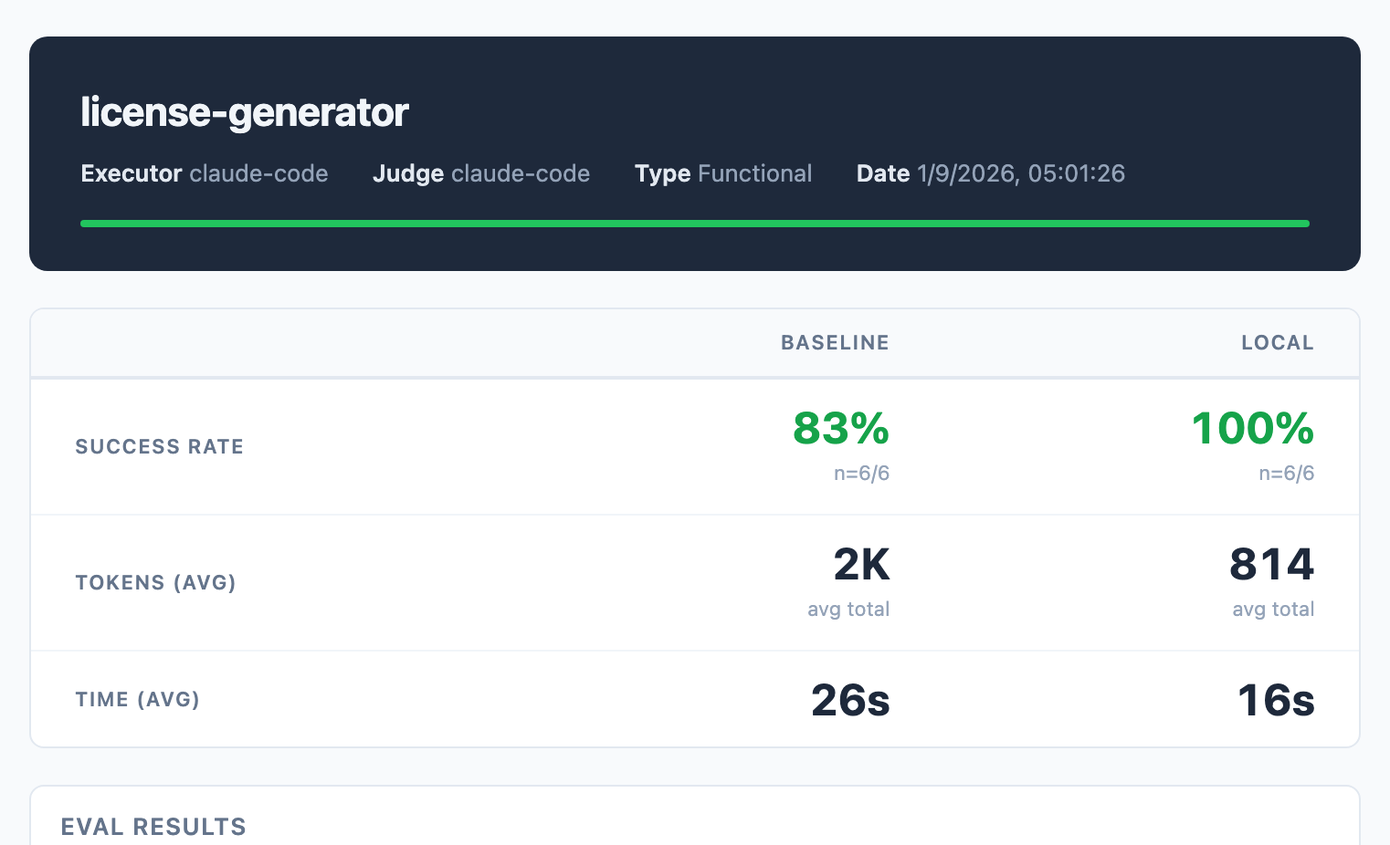
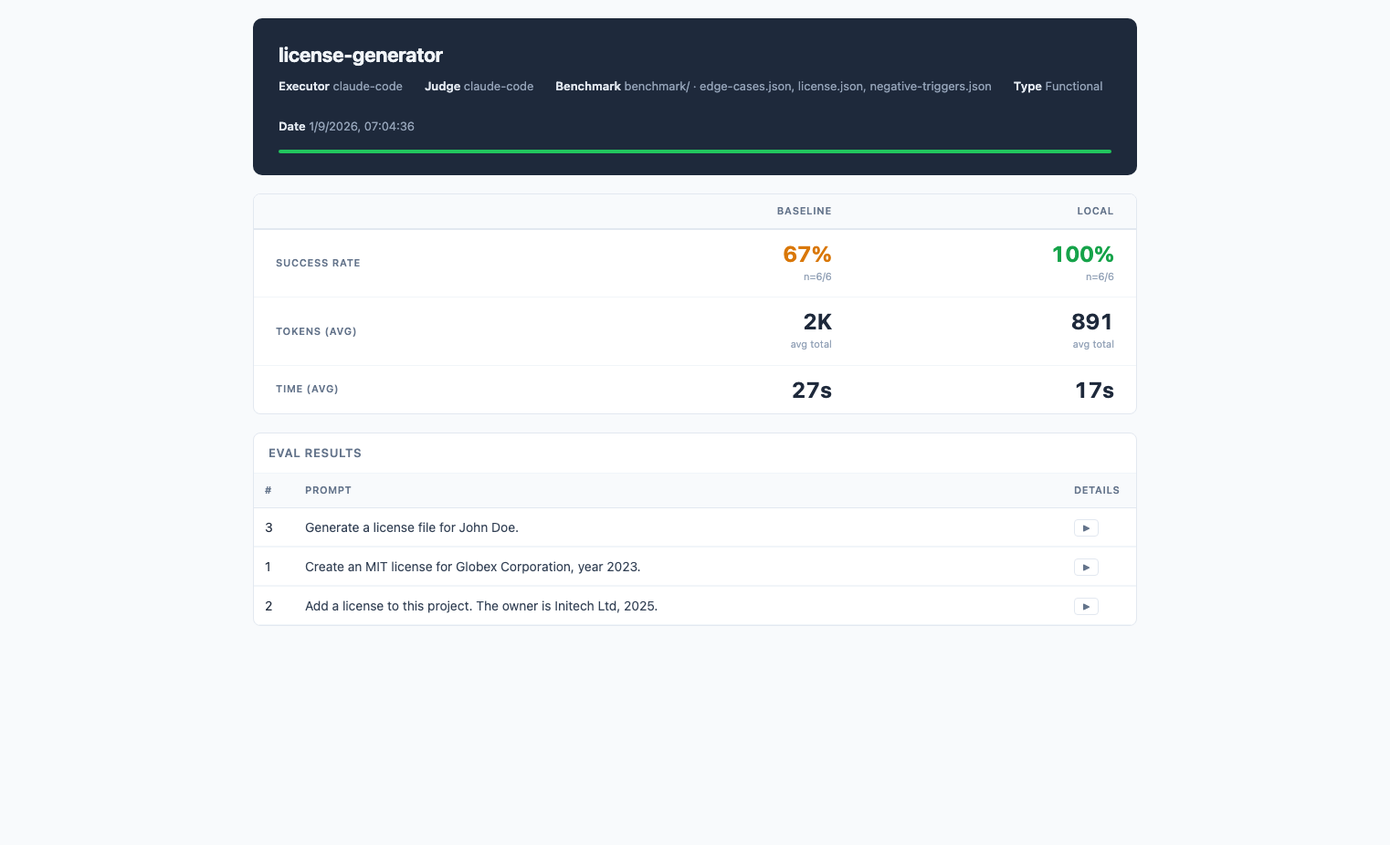
Regenerate the sample report on the benchmark-aware header
The published sample was captured before the header recorded a benchmark.
Regenerated with the command the README documents, so it now shows which
frozen benchmark produced the numbers, and rescreenshotted at the same
1522x926.

Claude-Session: https://claude.ai/code/session_014Zard8FspbqLpJH69t3tFm

diff --git a/docs/sample-report.html b/docs/sample-report.html
@@ -329,6 +329,7 @@ input[type="text"] { width: 190px; }
     <div class="header-meta">
       <span><b>Executor</b> <span id="hdr-executor">—</span></span>
       <span id="hdr-judge-wrap" hidden><b>Judge</b> <span id="hdr-judge">—</span></span>
+      <span id="hdr-benchmark-wrap" hidden><b>Benchmark</b> <span id="hdr-benchmark">—</span></span>
       <span><b>Type</b> <span id="hdr-type">—</span></span>
       <span><b>Date</b> <span id="hdr-date">—</span></span>
     </div>
@@ -365,7 +366,7 @@ input[type="text"] { width: 190px; }
 
 <div class="toast" id="toast" role="status" aria-live="polite"></div>
 
-<script id="run-data" type="application/json">{"runId":"2026-09-01T20-01-26-007Z","command":"functional","skill":"license-generator","executorAgent":"claude-code","judgeAgent":"claude-code","timestamp":"2026-09-01T20:01:26.007Z","tasks":[{"taskId":3,"prompt":"Generate a license file for John Doe.","assertions":["A file named LICENSE was created in the working directory","The LICENSE file contains 'John Doe'","The LICENSE file contains the current year (2026) since no year was specified in the prompt"],"variants":{"baseline":[{"id":1,"passed":true,"isError":false,"results":[1,1,1],"reasons":["Verified directly: a file named LICENSE exists in the working directory. The agent modified a pre-existing LICENSE rather than creating a new file, but the assertion's end state (a LICENSE file present in the working directory, authored for John Doe) holds.","Verified by reading the file: line 3 reads 'Copyright (c) 2026 John Doe', matching the git diff which shows 'Federico Mete' replaced by 'John Doe'.","Verified by reading the file: the copyright line contains '2026', the current year, which was not specified in the prompt."],"tokens":{"totalTokens":1710},"durationMs":29448,"output":"Wrote `LICENSE` — MIT, `Copyright (c) 2026 John Doe`.\n\nTwo things to flag:\n- The repo already had a `LICENSE` naming **Federico Mete** as copyright holder; I replaced that line (it's the only change — `git checkout LICENSE` restores it). If you wanted a separate file rather than a replacement, say the filename and I'll move it.\n- I chose MIT to match `\"license\": \"MIT\"` in `package.json`. `package.json`'s `\"author\": \"Federico Mete\"` is unchanged — tell me if that should become John Doe too.","outputLen":494,"toolCalls":3,"stopStatus":"success","logFile":"task_3_baseline_trial_1.log","anomalies":[]},{"id":2,"passed":true,"isError":false,"results":[1,1,1],"reasons":["Verified by direct read: a file named LICENSE exists in the working directory (1065 bytes) containing a full MIT license. The diff shows it was modified rather than created from scratch, but the assertion's intent — a LICENSE file present in the working directory as a result of the agent's action — is satisfied.","Verified by direct read: line 3 of LICENSE reads 'Copyright (c) 2026 John Doe', so the exact string 'John Doe' is present.","Verified by direct read: the copyright line contains '2026', the current year, which was not specified in the original prompt."],"tokens":{"totalTokens":1816},"durationMs":30278,"output":"Wrote an MIT license to `LICENSE` with `Copyright (c) 2026 John Doe`.\n\nTwo things worth flagging:\n\n- This repo already had a `LICENSE` — MIT, `Copyright (c) 2026 Federico Mete`. I overwrote it, so the copyright holder changed. The only diff is that one line; revert with `git checkout LICENSE` if you meant a separate file instead.\n- `package.json` still declares `\"author\": \"Federico Mete\"` and `\"license\": \"MIT\"`. The license field still matches; the author no longer matches the copyright line.\n\nI picked MIT since that's what the project already used and what `package.json` declares. Say the word if you wanted Apache-2.0, GPL, BSD, or something else.","outputLen":656,"toolCalls":3,"stopStatus":"success","logFile":"task_3_baseline_trial_2.log","anomalies":[]}],"local":[{"id":1,"passed":true,"isError":false,"results":[1,1,1],"reasons":["Verified via the filesystem: a file named LICENSE exists at the root of the working directory and holds a complete MIT License text. Note that git reports it as ' M LICENSE' (tracked and modified, first added in commit 37dc082), so the agent overwrote a pre-existing LICENSE rather than creating a new file; the end state the assertion targets — a LICENSE file present in the working directory with generated license content — is satisfied.","Reading the file directly shows line 3 is 'Copyright (c) 2026 John Doe', matching the requested copyright holder from the prompt. The diff confirms the prior holder 'Federico Mete' was replaced with 'John Doe'.","The copyright line reads 'Copyright (c) 2026 John Doe'. The prompt specified no year, and 2026 is the current year, so the default was applied correctly."],"tokens":{"totalTokens":789},"durationMs":16737,"output":"I'll use the license-generator skill.\nCreated `LICENSE` — MIT License, copyright holder **John Doe**, year **2026** (current year, since none was specified).","outputLen":157,"toolCalls":2,"stopStatus":"success","logFile":"task_3_local_trial_1.log","anomalies":[]},{"id":2,"passed":true,"isError":false,"results":[1,1,1],"reasons":["Verified with a direct filesystem read: LICENSE exists in the working directory and contains the MIT License text. Note the git diff shows it as a modification of a pre-existing LICENSE rather than a brand-new file, but the required artifact is present in the working directory as specified.","Direct read of LICENSE shows line 3: 'Copyright (c) 2026 John Doe', matching the diff which replaced the prior holder 'Federico Mete' with 'John Doe'.","The copyright line reads 'Copyright (c) 2026 John Doe', containing the current year 2026, and the prompt specified no year."],"tokens":{"totalTokens":794},"durationMs":15162,"output":"I'll use the license-generator skill.\nCreated `LICENSE` in the project root with the MIT License, copyright holder **John Doe** and year **2026** (current year, since none was specified).","outputLen":187,"toolCalls":2,"stopStatus":"success","logFile":"task_3_local_trial_2.log","anomalies":[]}]}},{"taskId":1,"prompt":"Create an MIT license for Globex Corporation, year 2023.","assertions":["A file named LICENSE was created in the working directory","The LICENSE file contains the line 'MIT License'","The LICENSE file contains 'Copyright (c) 2023 Globex Corporation'"],"variants":{"baseline":[{"id":1,"passed":true,"isError":false,"results":[1,1,1],"reasons":["Verified directly: `LICENSE` exists in the working directory (1075 bytes) and the diff shows the agent wrote MIT license content into it. Note the file pre-existed and was overwritten rather than newly created, but the end state required by the assertion — a LICENSE file present with the agent's content — holds.","Reading the file confirms line 1 is exactly 'MIT License'.","Reading the file confirms line 3 is 'Copyright (c) 2023 Globex Corporation', matching the diff which replaced 'Copyright (c) 2026 Federico Mete'."],"tokens":{"totalTokens":708},"durationMs":13643,"output":"I'll write the standard MIT license text directly.\nCreated `LICENSE` with the standard MIT license text, copyright 2023 Globex Corporation.","outputLen":139,"toolCalls":1,"stopStatus":"success","logFile":"task_1_baseline_trial_1.log","anomalies":[]},{"id":2,"passed":false,"isError":false,"results":[0,0,0],"reasons":["The agent created `LICENSE-Globex-2023.txt`, not `LICENSE`. A `LICENSE` file does exist in the directory, but it is pre-existing tracked content (MIT, 2026 Federico Mete) and was not created or modified by the agent — git status shows only `LICENSE-Globex-2023.txt` as untracked and no diff against `LICENSE`.","The pre-existing `LICENSE` file does begin with 'MIT License', but it was not produced by this execution; the file the agent actually wrote is `LICENSE-Globex-2023.txt`. Since the assertion targets a LICENSE file created by the agent, which does not exist, it is not satisfied.","`LICENSE` contains 'Copyright (c) 2026 Federico Mete'. The string 'Copyright (c) 2023 Globex Corporation' appears only in `LICENSE-Globex-2023.txt`, not in `LICENSE`."],"tokens":{"totalTokens":1859},"durationMs":30350,"output":"Written to `LICENSE-Globex-2023.txt` — standard MIT text with `Copyright (c) 2023 Globex Corporation`.\n\nOne note: this repo already has a `LICENSE` (MIT, 2026 Federico Mete), so I didn't overwrite it. If you meant to replace the project's license, say the word and I'll move this over `LICENSE`.","outputLen":295,"toolCalls":3,"stopStatus":"success","logFile":"task_1_baseline_trial_2.log","anomalies":[{"tag":"zero-assertions","reason":"Passed 0 of 3 assertions; the cohort median is 1.5."}]}],"local":[{"id":1,"passed":true,"isError":false,"results":[1,1,1],"reasons":["A file named LICENSE exists in the working directory (verified by direct read); the diff shows it was written by the agent with the requested content.","The first line of the file is exactly 'MIT License', and the body matches the standard MIT license text.","Line 3 of the file reads 'Copyright (c) 2023 Globex Corporation', matching the requested holder and year exactly."],"tokens":{"totalTokens":795},"durationMs":15236,"output":"I'll use the license-generator skill.\nCreated `LICENSE` with the MIT License, copyright holder **Globex Corporation**, year **2023**.","outputLen":133,"toolCalls":2,"stopStatus":"success","logFile":"task_1_local_trial_1.log","anomalies":[]},{"id":2,"passed":true,"isError":false,"results":[1,1,1],"reasons":["Verified with a direct file read: LICENSE exists in the working directory (1075 bytes). The git diff shows it as a modification of an existing tracked file rather than a new file, but the assertion's intent — a LICENSE file present with the requested content — is satisfied.","The first line of the file read directly from disk is exactly 'MIT License', and the body matches the standard MIT license text.","Line 3 of the file reads 'Copyright (c) 2023 Globex Corporation', matching the requested holder and year; the diff confirms it replaced the prior 'Copyright (c) 2026 Federico Mete'."],"tokens":{"totalTokens":794},"durationMs":15927,"output":"I'll use the license-generator skill.\nCreated `LICENSE` with the MIT License text, copyright holder **Globex Corporation**, year **2023**.","outputLen":138,"toolCalls":2,"stopStatus":"success","logFile":"task_1_local_trial_2.log","anomalies":[]}]}},{"taskId":2,"prompt":"Add a license to this project. The owner is Initech Ltd, 2025.","assertions":["A file named LICENSE was created in the working directory","The LICENSE file contains the line 'MIT License'","The LICENSE file contains 'Copyright (c) 2025 Initech Ltd'"],"variants":{"baseline":[{"id":1,"passed":true,"isError":false,"results":[1,1,1],"reasons":["A LICENSE file exists in the working directory and was verified by reading it. It was modified rather than newly created (a prior MIT LICENSE was already present), but the end state satisfies the assertion: the working directory contains a LICENSE file with the intended content.","The first line of LICENSE reads exactly 'MIT License'.","Line 3 of LICENSE reads 'Copyright (c) 2025 Initech Ltd', matching the required string exactly; the diff confirms it replaced 'Copyright (c) 2026 Federico Mete'."],"tokens":{"totalTokens":1709},"durationMs":29185,"output":"I'll add a license. Let me check the project metadata first.\nThe project already had a `LICENSE` file — MIT, but with `Copyright (c) 2026 Federico Mete`. I updated the copyright holder rather than adding a second file:\n\n- `LICENSE:3` — now `Copyright (c) 2025 Initech Ltd`. The rest of the MIT text is unchanged.\n\nI kept MIT since `package.json` already declares `\"license\": \"MIT\"` and you didn't ask for a different one. Two things I left alone, in case you want them changed:\n\n- `package.json:\"author\"` is still `Federico Mete` — that's authorship attribution, distinct from the copyright owner.\n- If the ownership transfer is real (not just a metadata fix), the git history and npm publishing account still point at the previous owner.","outputLen":738,"toolCalls":4,"stopStatus":"success","logFile":"task_2_baseline_trial_1.log","anomalies":[]},{"id":2,"passed":true,"isError":false,"results":[1,1,1],"reasons":["A file named LICENSE exists in the working directory (verified via ls and cat). It was not newly created by the agent — it already existed and was modified (git status shows ' M LICENSE') — but the end state required by the assertion, a LICENSE file present in the working directory, holds.","grep confirms line 1 of LICENSE is exactly 'MIT License'.","grep confirms line 3 of LICENSE reads 'Copyright (c) 2025 Initech Ltd', matching the requested owner and year from the original prompt."],"tokens":{"totalTokens":1336},"durationMs":26040,"output":"I'll add a license. Let me check the project setup first.\nA LICENSE file already exists — let me see what's in it.\nDone.\n\nThe project already had a `LICENSE` file (MIT) and `\"license\": \"MIT\"` in `package.json`, but the copyright line read `2026 Federico Mete`. Rather than introduce a second license, I kept MIT and reassigned ownership:\n\n- `LICENSE:3` — now `Copyright (c) 2025 Initech Ltd`\n- `README.md` — added a `## License` section pointing at the file, since the README had none\n\nTwo things I left alone, in case you want them changed:\n- `package.json` still lists `\"author\": \"Federico Mete\"` — npm author and copyright holder are separate fields, so it isn't necessarily wrong, but say the word if Initech should be the author too.\n- I picked MIT by inheritance from the existing file. If Initech's intent was a different license (Apache-2.0, proprietary, etc.), that's a swap of both the file and the `package.json` field.","outputLen":930,"toolCalls":4,"stopStatus":"success","logFile":"task_2_baseline_trial_2.log","anomalies":[]}],"local":[{"id":1,"passed":true,"isError":false,"results":[1,1,1],"reasons":["Verified with the filesystem: a file named LICENSE exists at the working-directory root (1068 bytes). Note that the file was not created from scratch — git shows it as modified (' M LICENSE'), pre-existing from commit 37dc082 — so the agent overwrote an existing LICENSE rather than creating a new one. The required end state (a LICENSE file present in the working directory) is satisfied.","Reading the file directly, line 1 is exactly 'MIT License'.","Reading the file directly, line 3 is exactly 'Copyright (c) 2025 Initech Ltd', matching the requested holder and year; the diff confirms it replaced 'Copyright (c) 2026 Federico Mete'."],"tokens":{"totalTokens":856},"durationMs":16034,"output":"I'll use the license-generator skill for this.\nCreated `LICENSE` at the project root with the MIT License, copyright holder **Initech Ltd**, year **2025**.","outputLen":155,"toolCalls":2,"stopStatus":"success","logFile":"task_2_local_trial_1.log","anomalies":[]},{"id":2,"passed":true,"isError":false,"results":[1,1,1],"reasons":["Verified directly: `ls -la LICENSE` shows the file present at the working-directory root (1068 bytes). Note the file was pre-existing and tracked (git log shows it from commit 37dc082; the diff is a modification, not an addition against /dev/null), so the agent overwrote rather than newly created it — but the required end state, a LICENSE file in the working directory, holds.","Verified by reading the file: line 1 is exactly 'MIT License'.","Verified by reading the file: line 3 is exactly 'Copyright (c) 2025 Initech Ltd', matching the owner and year from the original prompt. The diff confirms it replaced the prior 'Copyright (c) 2026 Federico Mete'."],"tokens":{"totalTokens":853},"durationMs":16029,"output":"I'll use the license-generator skill.\nCreated `LICENSE` at the project root — MIT License, `Copyright (c) 2025 Initech Ltd`.","outputLen":124,"toolCalls":2,"stopStatus":"success","logFile":"task_2_local_trial_2.log","anomalies":[]}]}}]}</script>
+<script id="run-data" type="application/json">{"runId":"2026-09-01T22-04-36-512Z","command":"functional","skill":"license-generator","executorAgent":"claude-code","judgeAgent":"claude-code","benchmark":{"source":"/Users/federico.mete/Work/Tools/skill-eval/mock-skill/evals","frozen":"benchmark","evalFiles":["edge-cases.json","license.json","negative-triggers.json"]},"timestamp":"2026-09-01T22:04:36.512Z","tasks":[{"taskId":3,"prompt":"Generate a license file for John Doe.","assertions":["A file named LICENSE was created in the working directory","The LICENSE file contains 'John Doe'","The LICENSE file contains the current year (2026) since no year was specified in the prompt"],"variants":{"baseline":[{"id":1,"passed":true,"isError":false,"results":[1,1,1],"reasons":["A LICENSE file exists in the working directory and was written by the agent. It was an overwrite of a pre-existing LICENSE rather than a brand-new file, but the assertion's intent — a LICENSE file present in the working directory as a result of the run — is satisfied, and the agent explicitly disclosed the replacement.","Direct read of LICENSE shows the copyright line 'Copyright (c) 2026 John Doe', confirming the string 'John Doe' is present.","The copyright line reads 'Copyright (c) 2026 John Doe', which contains the current year 2026; no year was given in the prompt."],"tokens":{"totalTokens":1545},"durationMs":27264,"output":"Wrote `LICENSE` — MIT (matching `package.json`'s `\"license\": \"MIT\"`), copyright 2026 John Doe.\n\nNote: this replaced the existing `LICENSE`, which was the same MIT text with \"Copyright (c) 2026 Federico Mete\". The only change is the holder line, and the previous version is recoverable via `git checkout LICENSE`. If you wanted John Doe's license as a separate file instead of replacing the project's, say the word and I'll restore the original.","outputLen":444,"toolCalls":3,"stopStatus":"success","logFile":"task_3_baseline_trial_1.log","anomalies":[]},{"id":2,"passed":false,"isError":false,"results":[0,0,1],"reasons":["The agent created `LICENSE-john-doe`, not `LICENSE`. A file named `LICENSE` does exist in the directory, but it pre-existed the run (it is tracked, absent from the untracked list, and the diff is empty, so it was neither created nor modified by the agent). Its content still reads 'Copyright (c) 2026 Federico Mete'. The agent explicitly acknowledged writing to a new file instead of `LICENSE`.","Read directly: `LICENSE` contains 'Copyright (c) 2026 Federico Mete' — no occurrence of 'John Doe'. The string 'John Doe' appears only in the separate `LICENSE-john-doe` file the agent created.","Read directly: `LICENSE` contains 'Copyright (c) 2026 Federico Mete', which includes the current year 2026. (The agent-created `LICENSE-john-doe` likewise uses 'Copyright (c) 2026'.) The year requirement is satisfied under either reading, even though the holder name is not."],"tokens":{"totalTokens":1713},"durationMs":29145,"output":"Created `LICENSE-john-doe` — an MIT License with `Copyright (c) 2026 John Doe`, matching the license type this repo already declares in `package.json`.\n\nI wrote it to a new file rather than the existing `LICENSE`, which currently holds `Copyright (c) 2026 Federico Mete`. If the intent was to change the project's copyright holder, say so and I'll replace `LICENSE` and drop the new file.","outputLen":388,"toolCalls":3,"stopStatus":"success","logFile":"task_3_baseline_trial_2.log","anomalies":[]}],"local":[{"id":1,"passed":true,"isError":false,"results":[1,1,1],"reasons":["Verified directly with the filesystem: a regular file named LICENSE exists in the working directory (1065 bytes) and the diff shows it was modified/written by the agent.","Reading the file confirms the copyright line is 'Copyright (c) 2026 John Doe', replacing the prior holder 'Federico Mete' as shown in the diff.","The file contains 'Copyright (c) 2026 John Doe', which uses the current year 2026 even though the prompt specified no year."],"tokens":{"totalTokens":739},"durationMs":18919,"output":"Created `LICENSE` in the working directory with the MIT License text, copyright holder **John Doe** and year **2026** (current year, since none was given).","outputLen":155,"toolCalls":2,"stopStatus":"success","logFile":"task_3_local_trial_1.log","anomalies":[]},{"id":2,"passed":true,"isError":false,"results":[1,1,1],"reasons":["A LICENSE file exists at the repo root and the diff shows it was modified/written by the agent; verified directly by reading the file.","The file contains the line 'Copyright (c) 2026 John Doe', replacing the previous holder 'Federico Mete'.","The copyright line reads 'Copyright (c) 2026 John Doe', which includes the current year 2026."],"tokens":{"totalTokens":840},"durationMs":16577,"output":"I'll use the license-generator skill.\nCreated `LICENSE` at the repo root with the MIT License, copyright holder **John Doe** and year **2026** (current year, since none was specified).","outputLen":184,"toolCalls":2,"stopStatus":"success","logFile":"task_3_local_trial_2.log","anomalies":[]}]}},{"taskId":1,"prompt":"Create an MIT license for Globex Corporation, year 2023.","assertions":["A file named LICENSE was created in the working directory","The LICENSE file contains the line 'MIT License'","The LICENSE file contains 'Copyright (c) 2023 Globex Corporation'"],"variants":{"baseline":[{"id":1,"passed":false,"isError":false,"results":[0,1,0],"reasons":["A file named LICENSE exists, but it was not created by this run — it is tracked in git and unmodified (git status shows only `?? LICENSE-globex`), and its contents are the pre-existing MIT license for `Copyright (c) 2026 Federico Mete`. The agent deliberately wrote its output to a new file `LICENSE-globex` instead of creating/overwriting `LICENSE`, and explicitly said so in its response and offered to replace `LICENSE` on request.","Read `LICENSE` directly: its first line is `MIT License`. Note this is the pre-existing repository license rather than anything the agent produced; the agent's new file `LICENSE-globex` also begins with `MIT License`.","Read `LICENSE` directly: its copyright line is `Copyright (c) 2026 Federico Mete`, not `Copyright (c) 2023 Globex Corporation`. The requested Globex copyright line is present only in the separate file `LICENSE-globex`, which the assertion does not reference."],"tokens":{"totalTokens":1801},"durationMs":29335,"output":"Wrote the standard MIT license text with `Copyright (c) 2023 Globex Corporation` to `LICENSE-globex`.\n\nI put it in a new file rather than `LICENSE`, because this repo already has an MIT `LICENSE` attributed to Federico Mete, 2026 — overwriting it would relicense the project to a different holder. Say the word and I'll replace `LICENSE` instead, or rename the new file.","outputLen":370,"toolCalls":3,"stopStatus":"success","logFile":"task_1_baseline_trial_1.log","anomalies":[]},{"id":2,"passed":false,"isError":false,"results":[0,1,0],"reasons":["Verified with ls and git status: the agent created LICENSE-Globex.txt (the only untracked/new file). A file named LICENSE does exist, but it is a pre-existing tracked file (Copyright (c) 2026 Federico Mete) that the agent explicitly declined to overwrite, so no LICENSE file was created by this execution.","Read the file directly: LICENSE begins with the line 'MIT License'. Note this text comes from the pre-existing repository LICENSE, not from the agent's work — the agent's output went to LICENSE-Globex.txt (which also starts with 'MIT License').","Read the file directly: LICENSE contains 'Copyright (c) 2026 Federico Mete'. The string 'Copyright (c) 2023 Globex Corporation' appears only in LICENSE-Globex.txt, not in LICENSE."],"tokens":{"totalTokens":1732},"durationMs":28199,"output":"Written to `LICENSE-Globex.txt` — standard MIT text with `Copyright (c) 2023 Globex Corporation`.\n\nOne note: this repo already has a tracked `LICENSE` (MIT, `Copyright (c) 2026 Federico Mete`), so I created a separate file rather than overwriting it. Say the word if you'd rather replace `LICENSE` itself.","outputLen":305,"toolCalls":3,"stopStatus":"success","logFile":"task_1_baseline_trial_2.log","anomalies":[]}],"local":[{"id":1,"passed":true,"isError":false,"results":[1,1,1],"reasons":["Verified directly: a file named LICENSE exists in the working directory (1075 bytes) and the git diff shows it was written by the agent during this run.","Reading the file confirms the first line is exactly 'MIT License', followed by the standard MIT license body.","The file contains the exact line 'Copyright (c) 2023 Globex Corporation'; the diff confirms it replaced the prior 'Copyright (c) 2026 Federico Mete' line, matching the requested holder and year."],"tokens":{"totalTokens":802},"durationMs":14999,"output":"I'll use the license-generator skill.\nCreated `LICENSE` in the working directory with the MIT License text, copyright holder **Globex Corporation**, year **2023**.","outputLen":163,"toolCalls":2,"stopStatus":"success","logFile":"task_1_local_trial_1.log","anomalies":[]},{"id":2,"passed":true,"isError":false,"results":[1,1,1],"reasons":["A LICENSE file exists in the working directory and was written by the agent during this run; the git diff shows it as modified (an MIT LICENSE was already present) and its content now matches the requested license.","Reading LICENSE directly confirms the first line is exactly 'MIT License'.","Reading LICENSE directly confirms line 3 is 'Copyright (c) 2023 Globex Corporation', matching the diff which replaced 'Copyright (c) 2026 Federico Mete'."],"tokens":{"totalTokens":802},"durationMs":15244,"output":"I'll use the license-generator skill.\nCreated `LICENSE` in the working directory with the MIT License text, copyright holder **Globex Corporation**, year **2023**.","outputLen":163,"toolCalls":2,"stopStatus":"success","logFile":"task_1_local_trial_2.log","anomalies":[]}]}},{"taskId":2,"prompt":"Add a license to this project. The owner is Initech Ltd, 2025.","assertions":["A file named LICENSE was created in the working directory","The LICENSE file contains the line 'MIT License'","The LICENSE file contains 'Copyright (c) 2025 Initech Ltd'"],"variants":{"baseline":[{"id":1,"passed":true,"isError":false,"results":[1,1,1],"reasons":["A file named LICENSE exists in the working directory (verified with ls). The agent modified a pre-existing LICENSE rather than creating one from scratch, but the end state satisfies the assertion: the project has a LICENSE file reflecting the requested ownership.","Reading LICENSE directly confirms the first line is exactly 'MIT License', and the full MIT terms follow.","Line 3 of LICENSE reads 'Copyright (c) 2025 Initech Ltd', matching the assertion exactly; the diff shows it replaced the prior 'Copyright (c) 2026 Federico Mete'."],"tokens":{"totalTokens":1395},"durationMs":26666,"output":"I'll add an MIT license (a common default for a Node CLI tool). Let me check the project setup first.\nThe project already had an MIT `LICENSE` file, but it was attributed to \"2026 Federico Mete\". I set the ownership you specified rather than adding a second, conflicting license:\n\n- **`LICENSE`** — copyright line now reads `Copyright (c) 2025 Initech Ltd`. Terms stay MIT, matching the `\"license\": \"MIT\"` already declared in `package.json`.\n- **`README.md`** — added a `## License` section pointing at the file (the README had no license reference before).\n\nTwo things I left alone, flagging in case you want them changed:\n- `package.json` `\"author\": \"Federico Mete\"` — authorship is distinct from copyright ownership, so I kept it.\n- MIT was retained since it was the existing declared license; say the word if Initech wants different terms (Apache-2.0, proprietary, etc.).","outputLen":875,"toolCalls":4,"stopStatus":"success","logFile":"task_2_baseline_trial_1.log","anomalies":[]},{"id":2,"passed":true,"isError":false,"results":[1,1,1],"reasons":["A LICENSE file exists in the working directory and holds the required content. The agent modified a pre-existing LICENSE rather than creating a new one, but the assertion's intent — that the working directory ends with a LICENSE file bearing the requested license — is satisfied.","Reading LICENSE directly confirms the first line is exactly 'MIT License'.","Reading LICENSE directly confirms line 3 is 'Copyright (c) 2025 Initech Ltd', matching the diff which replaced 'Copyright (c) 2026 Federico Mete'."],"tokens":{"totalTokens":1115},"durationMs":21660,"output":"I'll add a license. Let me check the project's existing metadata first.\nA LICENSE already exists — let me see what it says.\nThe project already has an MIT LICENSE, but with a different copyright holder. I'll update it to the stated owner rather than adding a second license file.\nDone. `LICENSE` now reads:\n\n```\nMIT License\n\nCopyright (c) 2025 Initech Ltd\n```\n\nNotes:\n- The project already carried an MIT license (`package.json` declares `\"license\": \"MIT\"`, and `LICENSE` is in the published `files` array), so I kept MIT and only corrected the copyright holder/year to Initech Ltd, 2025. If Initech wants a different license (Apache-2.0, proprietary, etc.), say which and I'll swap the full text and the `package.json` field.\n- `package.json` still has `\"author\": \"Federico Mete\"`. Author and copyright owner are separate fields, so I left it alone — tell me if you want that changed to Initech Ltd too.","outputLen":904,"toolCalls":3,"stopStatus":"success","logFile":"task_2_baseline_trial_2.log","anomalies":[]}],"local":[{"id":1,"passed":true,"isError":false,"results":[1,1,1],"reasons":["Verified directly: `LICENSE` exists at the project root (1068 bytes). Note the diff shows it was modified rather than newly created (a prior LICENSE with 'Copyright (c) 2026 Federico Mete' existed), but the intended end state — a LICENSE file present in the working directory with the requested content — is satisfied.","Reading the file confirms line 1 is exactly 'MIT License'.","Reading the file confirms line 3 is exactly 'Copyright (c) 2025 Initech Ltd', matching the requested owner and year; the diff corroborates this replaced the previous copyright line."],"tokens":{"totalTokens":867},"durationMs":15846,"output":"I'll use the license-generator skill for this.\nCreated `LICENSE` at the project root with the MIT License, copyright holder **Initech Ltd**, year **2025**.","outputLen":155,"toolCalls":2,"stopStatus":"success","logFile":"task_2_local_trial_1.log","anomalies":[]},{"id":2,"passed":true,"isError":false,"results":[1,1,1],"reasons":["Verified directly with `ls -la LICENSE`: a file named LICENSE (1068 bytes) exists at the working directory root. Strictly speaking it was overwritten rather than created from nothing — the diff shows LICENSE as a modification (index 871b781..c0f0d96) of a pre-existing MIT file — but the assertion's intent, that a LICENSE file is in place as a result of the run, is satisfied. The agent proactively disclosed the overwrite and offered a restore path.","Read the file contents directly: line 1 is exactly 'MIT License', followed by the standard MIT permission grant text.","Read the file contents directly: line 3 is exactly 'Copyright (c) 2025 Initech Ltd', matching the owner and year given in the original prompt."],"tokens":{"totalTokens":1295},"durationMs":22115,"output":"I'll use the license-generator skill for this.\n`LICENSE` is in place at the repo root, generated from the skill's MIT template.\n\nOne thing to flag: a `LICENSE` already existed and I overwrote it. It was the same MIT template, so the only change is the copyright line:\n\n```diff\n-Copyright (c) 2026 Federico Mete\n+Copyright (c) 2025 Initech Ltd\n```\n\nThat matches what you asked for (Initech Ltd, 2025), but if the prior holder was intentional, say so and I'll restore it with `git checkout -- LICENSE`.","outputLen":500,"toolCalls":3,"stopStatus":"success","logFile":"task_2_local_trial_2.log","anomalies":[]}]}}]}</script>
 <script>
 (function () {
   'use strict';
@@ -521,6 +522,15 @@ input[type="text"] { width: 190px; }
     /* A run nobody judged says so by leaving the role out, not by naming an agent. */
     document.getElementById('hdr-judge').textContent = RUN.judgeAgent || '';
     document.getElementById('hdr-judge-wrap').hidden = !RUN.judgeAgent;
+    /* Which benchmark produced these numbers. Frozen at the start of the run and
+       shared by every variant, so it is what a later comparison has to reuse. */
+    var bench = RUN.benchmark;
+    var benchWrap = document.getElementById('hdr-benchmark-wrap');
+    document.getElementById('hdr-benchmark').textContent = bench
+      ? bench.frozen + '/' + (bench.evalFiles.length ? '  ·  ' + bench.evalFiles.join(', ') : '')
+      : '';
+    benchWrap.title = bench ? 'Frozen from ' + bench.source : '';
+    benchWrap.hidden = !bench;
     document.getElementById('hdr-type').textContent = RUN.command === 'functional' ? 'Functional' : 'Trigger';
     document.getElementById('hdr-date').textContent = new Date(RUN.timestamp).toLocaleString();
   }
